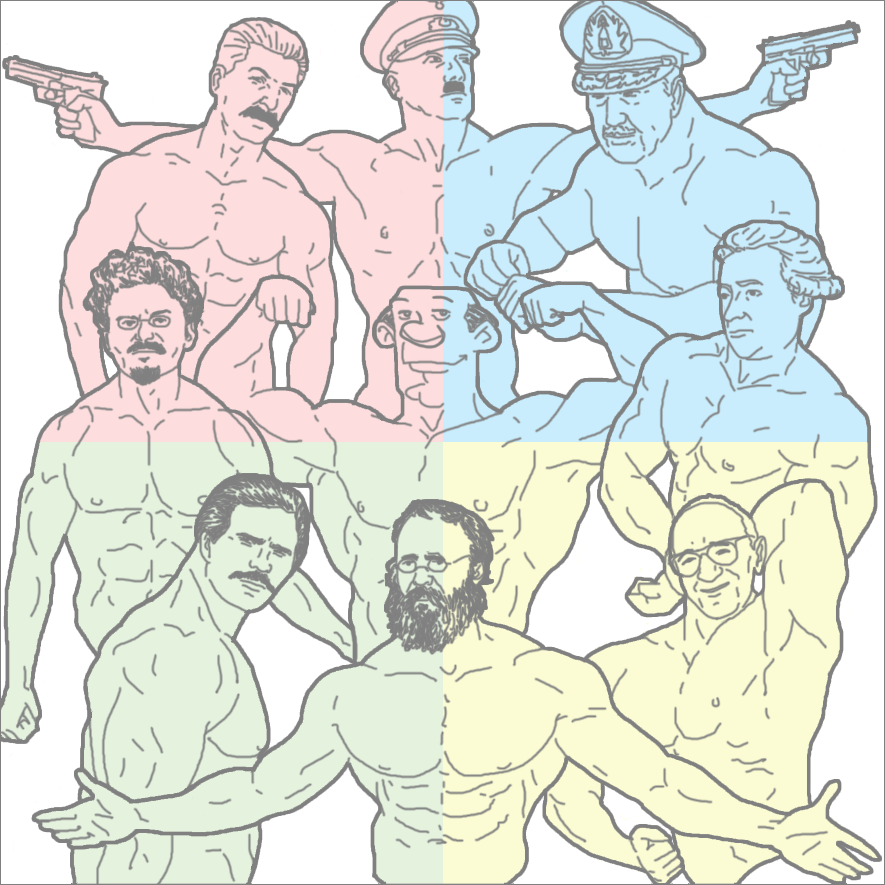
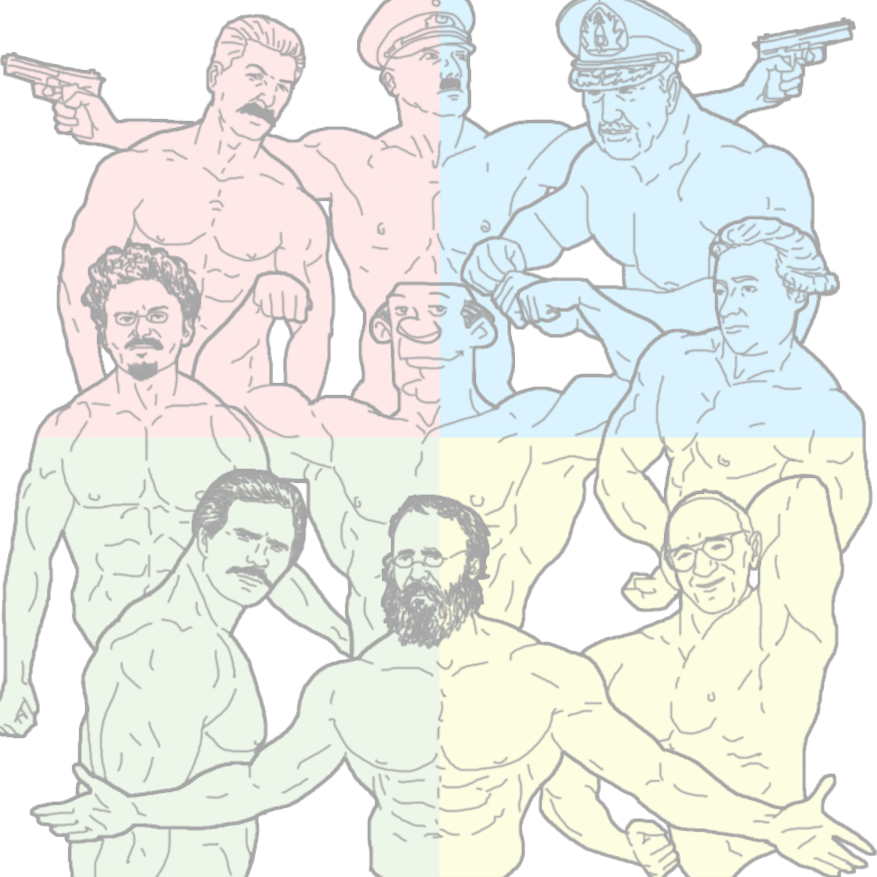
result opacity changed

diff --git a/frontend/src/pages/result/Result.tsx b/frontend/src/pages/result/Result.tsx
@@ -76,14 +76,14 @@ export default class Result extends React.Component<ResultProps, ResultState> {
                     </div>
                     <div className="mx-14 my-5 text-center border-4 bg-gray-100">
                         <h1 className="text-3xl bold border-x-4 border-b-4 p-5">Chat with your comrades!</h1>
-                        <div className="h-screen border-x-4 p-5 overscroll-y overflow-y-scroll">
-                            <div className="flex justify-center">
+                        <div className="border-x-4 p-5 ">
+                        <img className="inline-block" src={car} alt="chad.png"></img>
+                            <div className="h-screen overscroll-y-auto overflow-y-scroll ">
                                 <div className="absolute">
-                                    <Chat vector={this.props.vector}/>
-                                </div> 
+                                <Chat vector={this.props.vector}/>
+                            </div> 
                             </div>
-                        <img className="bg-repeat-y" src={car} alt="chad.png"></img> 
-                        </div>
+                        </div>                               
                     </div>
                 </div>
             </div>
